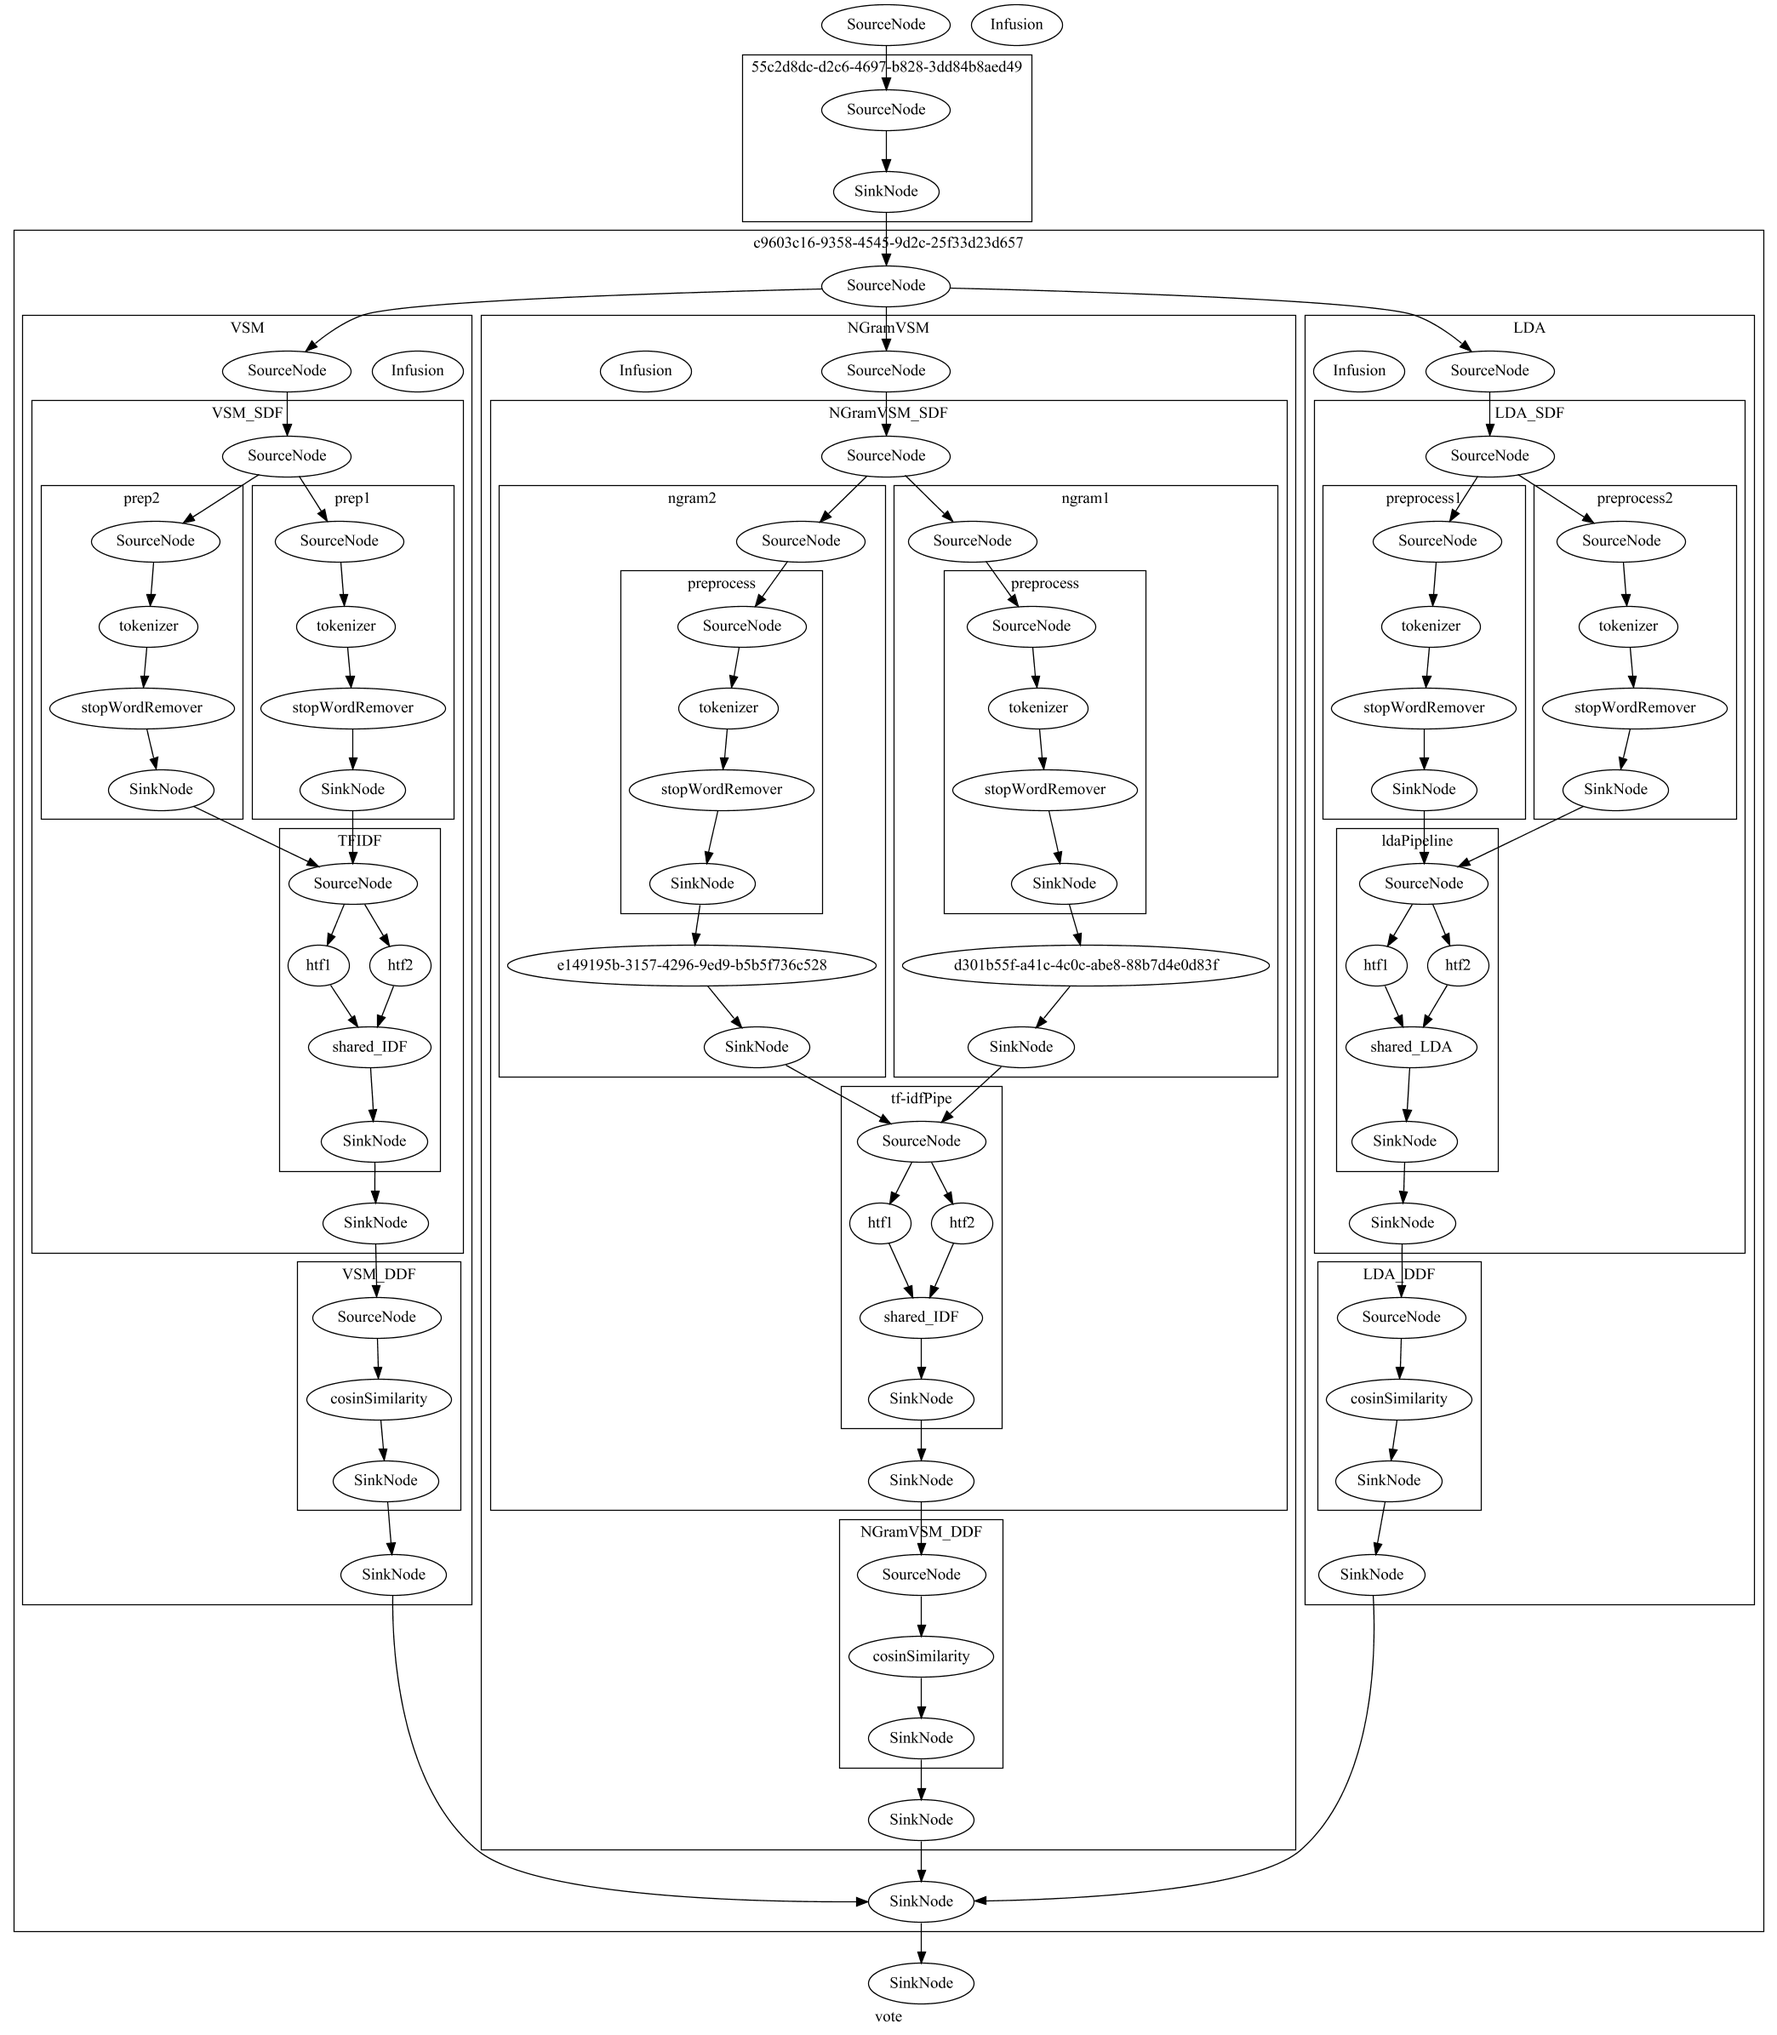
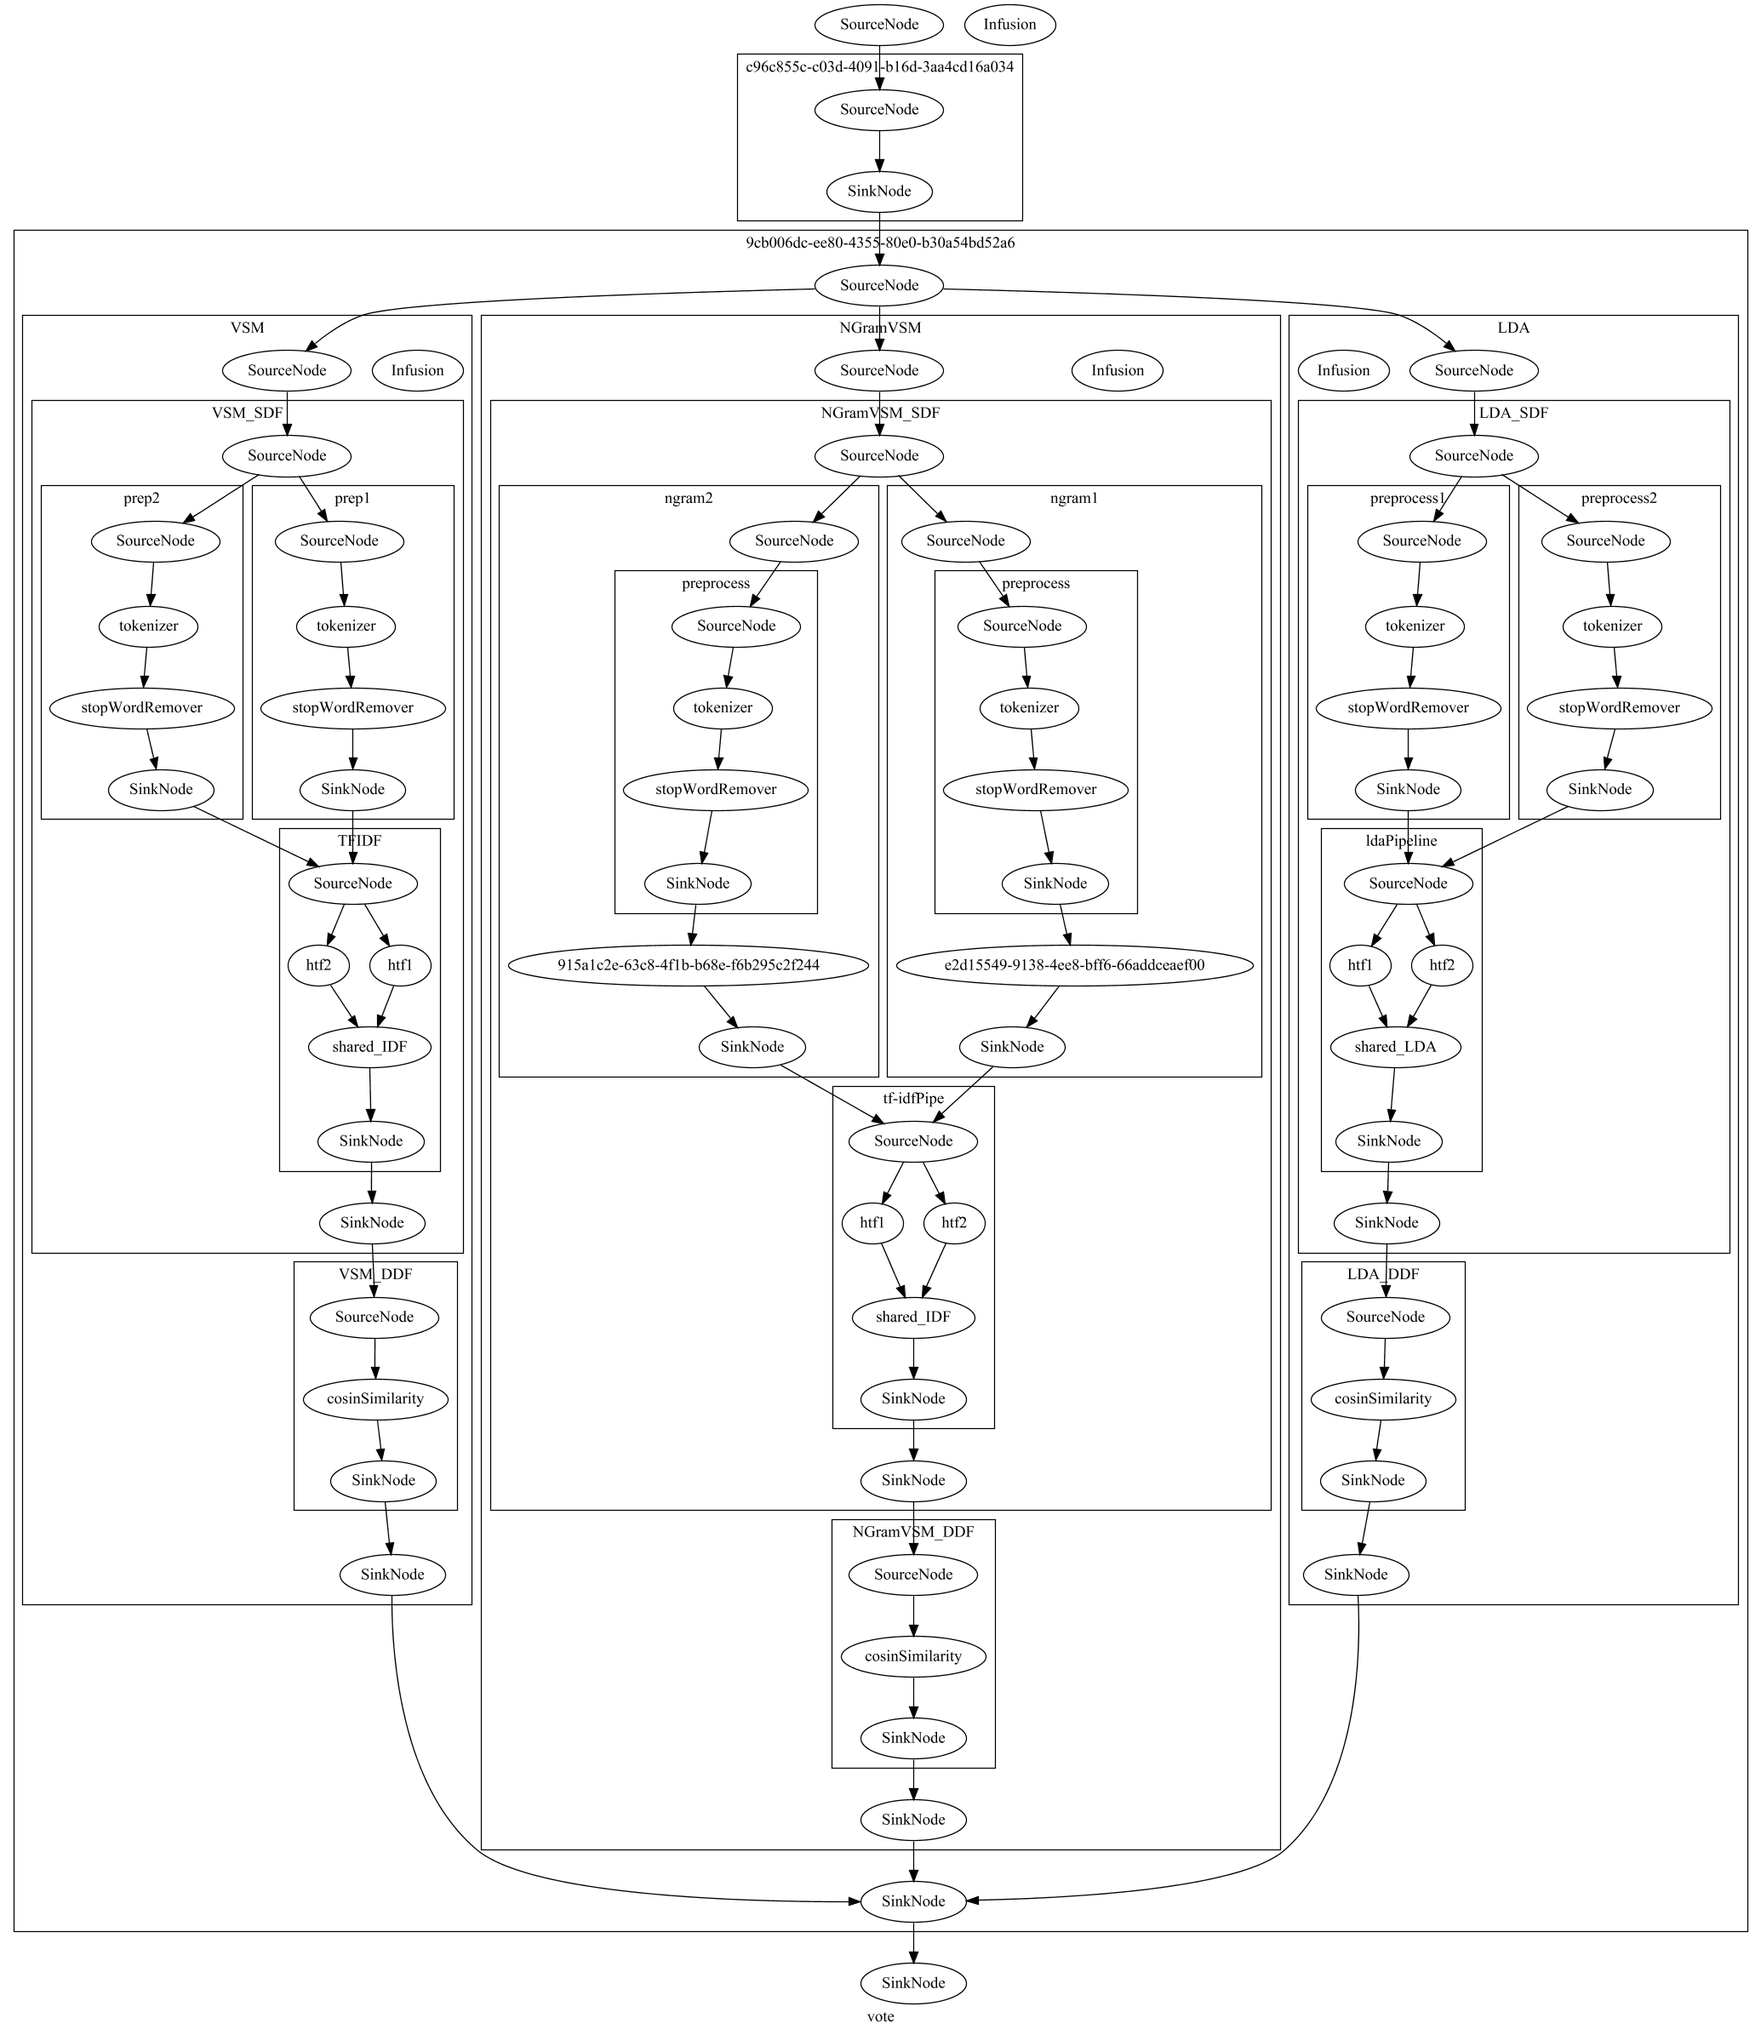
temporally fix the multi param bug by removing params by name

diff --git a/src/main/java/core/graphPipeline/basic/SNode.java b/src/main/java/core/graphPipeline/basic/SNode.java
@@ -8,6 +8,7 @@ import org.apache.spark.ml.Pipeline;
 import org.apache.spark.ml.PipelineStage;
 import org.apache.spark.ml.feature.StopWordsRemover;
 import org.apache.spark.ml.param.Param;
+import org.apache.spark.ml.param.Params;
 import org.apache.spark.ml.param.shared.HasInputCol;
 import org.apache.spark.ml.param.shared.HasInputCols;
 import org.apache.spark.ml.param.shared.HasOutputCol;
@@ -105,21 +106,30 @@ public class SNode extends Vertex {
         return snodeStr;
     }
 
+    private void removeParam(List<Param> params, Param param) {
+        String paramName = param.name();
+        for (Param p : new ArrayList<>(params)) {
+            if (p.name().equals(paramName)) {
+                params.remove(p);
+            }
+        }
+    }
+
     private List<String> getNonIOParamsValue(PipelineStage stage) {
-        if(stage instanceof StopWordsRemover || stage instanceof NullRemoverModelSingleIO) {
+        if (stage instanceof StopWordsRemover || stage instanceof NullRemoverModelSingleIO) {
             int i = 0;
         }
         List<Param> params = new ArrayList<>(Arrays.asList(stage.params()));
         List<String> paramValues = new ArrayList<>();
         if (stage instanceof HasInputCols) {
-            params.remove(((HasInputCols) stage).inputCols());
+            removeParam(params, ((HasInputCols) stage).inputCols());
         } else if (stage instanceof HasInputCol) {
-            params.remove(((HasInputCol) stage).inputCol());
+            removeParam(params, ((HasInputCol) stage).inputCol());
         }
         if (stage instanceof HasOutputCol) {
-            params.remove(((HasOutputCol) stage).outputCol());
+            removeParam(params, ((HasOutputCol) stage).outputCol());
         } else if (stage instanceof HasOutputCols) {
-            params.remove(((HasOutputCols) stage).outputCols());
+            removeParam(params, ((HasOutputCols) stage).outputCols());
         }
         for (Param param : params) {
             paramValues.add(stage.get(param).toString());

diff --git a/src/test/java/BuildingBlockTest.java b/src/test/java/BuildingBlockTest.java
@@ -10,6 +10,7 @@ import buildingBlocks.traceTasks.VoteTraceBuilder;
 import core.SparkTraceTask;
 import core.graphPipeline.basic.SGraph;
 import examples.TestBase;
+import featurePipelineStages.cacheStage.CacheStage;
 import org.apache.spark.sql.Dataset;
 import org.apache.spark.sql.Row;
 import org.junit.Before;
